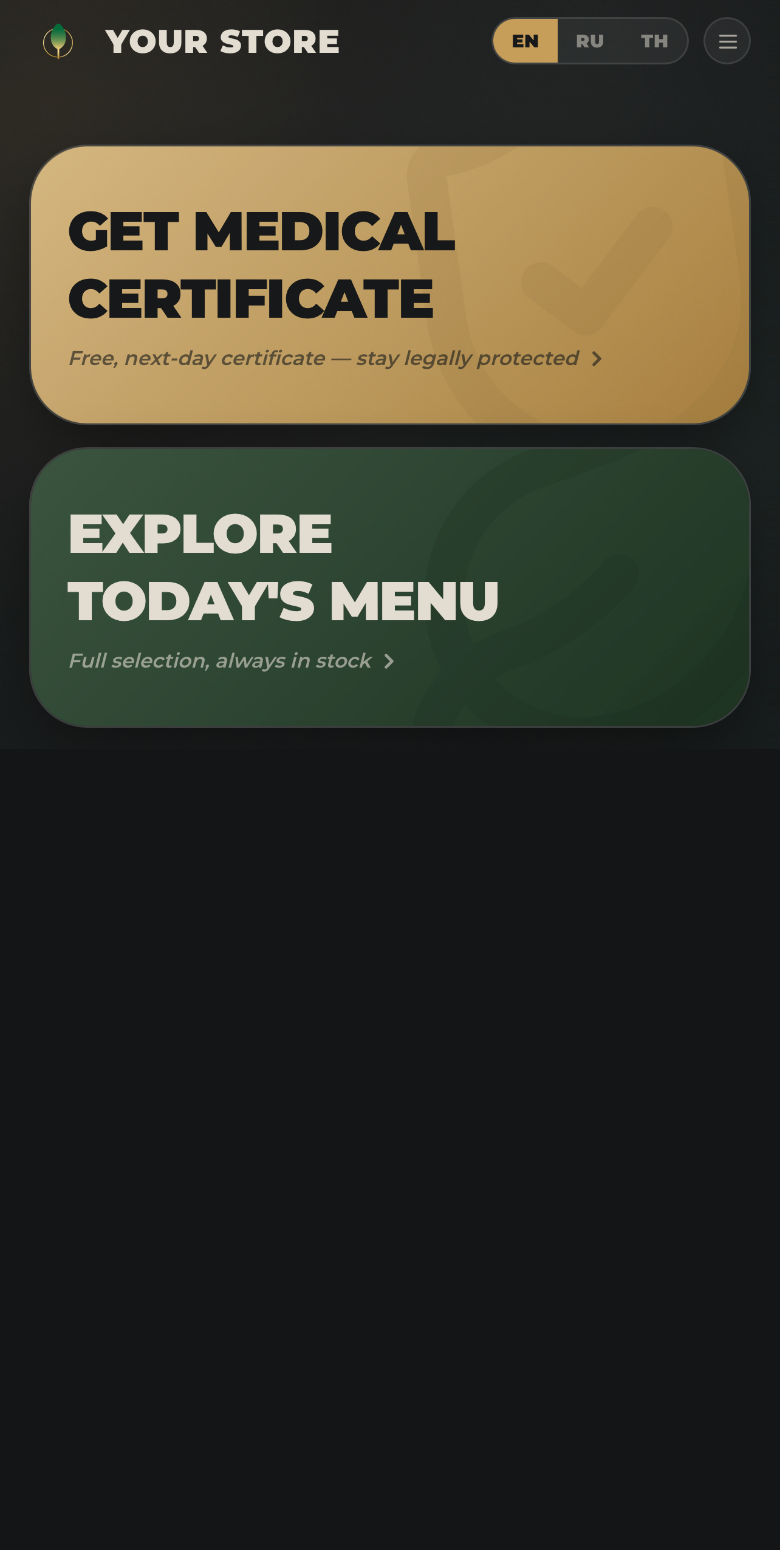
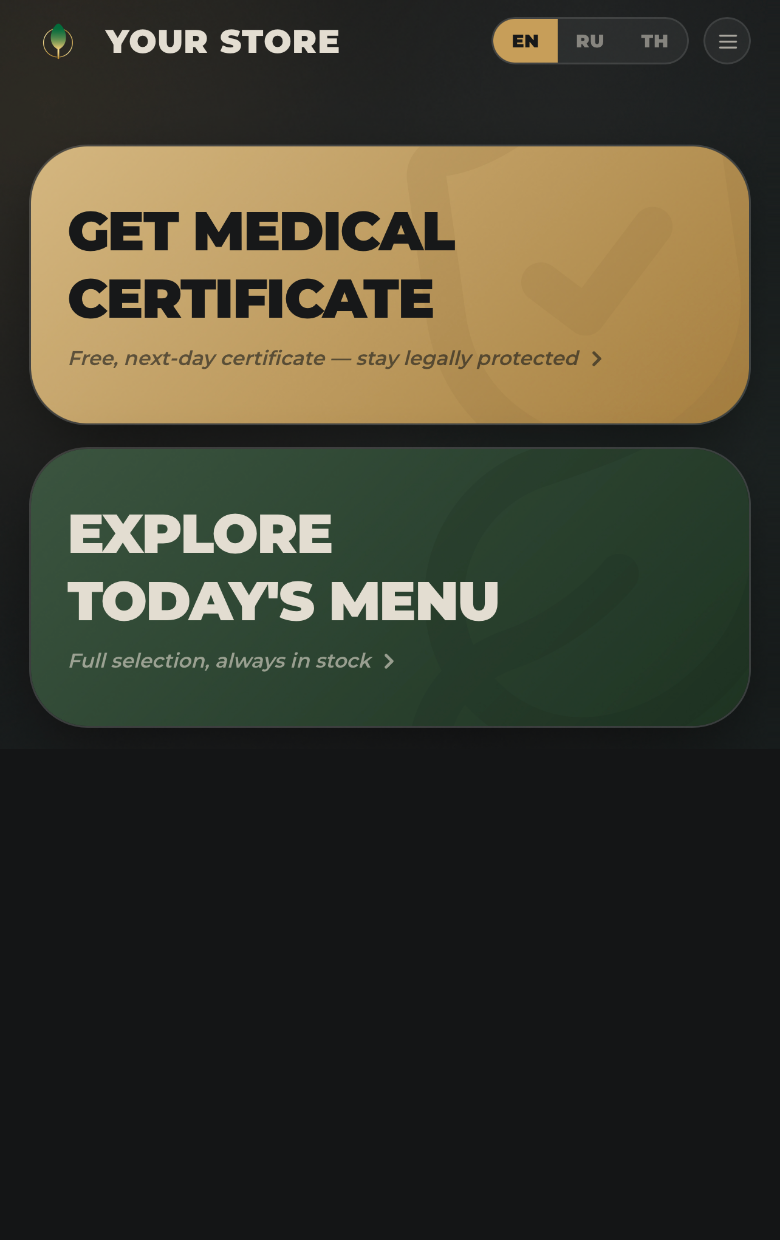
Pitch page pass 8: block 02 drops tilt, own crop for customer-view.png, CTA overlap
Three fixes, all confirmed on the live preview (mobile + desktop):

1. customer-view.png was padded to the same 775-reference-px length
   as staff-view.png, even though its real content (two cards, ending
   ~363px in) is much shorter than the panel's (buttons, ~478px in) —
   that mismatch is what left a visibly longer flat fill inside the
   file itself, ahead of any fade. Recropped independently: measured
   live (mobile's 300px actual render width is the binding case, not
   desktop's 391px, since the frame's fixed 8px padding + 1px border
   eat proportionally more of a narrower render) that 620 reference px
   is enough for the corpus's 2.4rem corner radius to clear the
   window's 100% mark with a small margin — not the ~412px of excess
   padding the shared 775 number was carrying.

2. Block 02's rotateDeg is 0 now (was -5). The tilt was the reason
   this mockup couldn't use the same CSS mask as block 01 in the first
   place — mask-image doesn't render correctly on a rotated,
   overflow-hidden element in this Chromium build, which is what
   FADE_OVERLAY_BG in PhoneMockup.tsx works around, fading to a flat
   #161819 instead of whatever's actually behind the corpus. Untilted,
   that bug doesn't apply and block 02 now fades through the same true
   mask block 01 always has, dissolving into its own actual background
   rather than a flat constant. FADE_OVERLAY_BG and the rotateDeg!==0
   branch stay in PhoneMockup.tsx for a future rotated call site, just
[…]

diff --git a/src/components/partners/PartnersClient.tsx b/src/components/partners/PartnersClient.tsx
@@ -70,27 +70,33 @@ function PitchBlock({
   cta: React.ReactNode;
   mockupSide?: "left" | "right";
   // ТЗ-4 §3.5 — each mockup's mask leaves a different amount of fully-
-  // transparent box below its last visible pixel (more on block 02, whose
-  // rotation also grows its own bounding box), so a single shared margin
-  // can't put both blocks in the same *visible* gap target at once.
+  // transparent box below its last visible pixel, so a single shared
+  // margin can't put both blocks in the same *visible* gap target at once.
   //
-  // ТЗ-7 recomputed both values from the live-rendered bounding box after
-  // WINDOW_H_PX shrunk (see PhoneMockup.tsx): `rotate()` doesn't change an
-  // element's own LAYOUT size, only where it paints, so the CTA div below
-  // (a plain flow sibling) is positioned against the mockup's *unrotated*
-  // layout height — block 02's actual (rotated) bottom edge paints lower
-  // than that, and a margin sized for the unrotated box lands short. At
-  // the old window height block 02's old `mt-0` had just enough accidental
-  // slack to cover that gap; the shrink used up that slack and then some —
-  // measured live, the rotated corpus's own deepest point (its bounding
-  // box's bottom-right corner, since -5° tilts that corner lowest) was
-  // landing 12px *below* the CTA button's own top edge, a real overlap,
-  // not just a tight gap. Both values below are chosen to clear that
-  // (measured, not assumed) bounding box with a ~28px reserve on top —
-  // reverify live (strip the mask, read getBoundingClientRect on the
-  // window div and the CTA div, see PhoneMockup.tsx's calibration-method
-  // comment for the general technique) if WINDOW_H_PX or either corpus's
-  // asset changes again.
+  // ТЗ-8 flipped the sign: both values are now NEGATIVE, so the CTA
+  // button overlaps the tail end of the mockup's own fade instead of
+  // sitting in the gap below it — the fade visually continues *behind*
+  // the button rather than finishing in empty space first (this is how
+  // the pre-merge DesktopMockup.tsx used to read, before the two mockups
+  // became one component). The overlap is safe only because it's
+  // confirmed live, pixel-sampled, not assumed: at the depth both values
+  // below reach, the composited pixel colour is already within a few RGB
+  // units of the page's own background (see PhoneMockup.tsx's
+  // calibration-method comment for the technique) — i.e. there's no
+  // still-legible corpus content getting abruptly sliced by the button's
+  // opaque fill, just a near-invisible tail.
+  //
+  // Both blocks now share the same window/mask geometry (ТЗ-8 also
+  // dropped block 02's tilt — see its call site below), so the two
+  // numbers target the same actual overlap depth (-30px, measured from
+  // the window's own bottom edge to the CTA's top) — but they're NOT the
+  // same class string: block 01's `-38px` and block 02's `-30px` differ by
+  // exactly the incidental DOM offset between the two CTAs (block 01's is
+  // a form-wrapped DemoLoginButton, block 02's a plain Link), which eats
+  // 8px of margin before it reaches the button itself. Copying one
+  // block's class value onto the other will NOT reproduce the same visual
+  // depth — reverify live (getBoundingClientRect on the window div and
+  // the CTA wrapper) rather than assuming a shared number.
   mobileCtaGapClassName?: string;
 }) {
   const textOrder = mockupSide === "left" ? "lg:order-2" : "";
@@ -218,7 +224,7 @@ export default function PartnersClient() {
           title={t.blockPt33Title}
           subtitle={t.blockPt33Subtitle}
           mockupSide="left"
-          mobileCtaGapClassName="mt-6"
+          mobileCtaGapClassName="mt-[-38px]"
           mockup={
             <PhoneMockup
               src="/images/partners/staff-view.png"
@@ -242,40 +248,54 @@ export default function PartnersClient() {
         {/* Block 02 — the client storefront the same system ships. Same
             light fill as block 01's CTA (ТЗ rewrite §11). Mockup on the
             right (ТЗ-3 §2.1) — unchanged from before, this is the result
-            side of the zigzag. 5° tilt kept (§2.2): two big cards read as
-            product photography, not data to parse.
-            Geometry (ТЗ-6 §1): customer-view.png's two cards end well
-            inside PhoneMockup's shared window (both fully opaque, nowhere
-            near the fade), but the file itself was short — the corpus's
-            own natural end (with its corner radius restored, ТЗ-5 had
-            squared it off as a workaround this rebuild replaces) landed
-            inside the still-partly-visible band, the exact "rounded sole"
-            defect ТЗ-5/6 both flagged. Extended with the screen's own
-            sampled background colour to the same 1550px (775 reference px)
-            length as block 01's asset, so its corpus now hard-clips past
-            the window's own edge before the radius ever paints, same
-            mechanism as block 01 rather than a per-block padding hack.
-            Also fixed at the source (ТЗ-6 §1.6): a light-grey scrollbar-
-            artifact column at the image's right edge (columns 769-779 of
-            780px width, present in the original capture, invisible
-            untilted but reading as a stray render seam once rotated) is
-            gone, painted over with its own left-neighbour colour for the
-            full height of the original capture — separate from, and
-            unrelated to, this block's rotated-mask overlay workaround (see
-            PhoneMockup.tsx's FADE_OVERLAY_BG comment for why this mockup
-            can't use a true CSS mask and needs the extra -inset-x-10
-            width on that overlay to cover its rotated corners). */}
+            side of the zigzag.
+            ТЗ-8 dropped the 5° tilt (§2.2's "product photography" framing
+            is gone with it) and rotateDeg={0} now — this block renders
+            through the same true CSS mask (MASK_IMAGE) block 01 always
+            has, not the FADE_OVERLAY_BG workaround. That workaround only
+            ever existed because mask-image doesn't render correctly on a
+            rotated + overflow-hidden element in this Chromium build (see
+            PhoneMockup.tsx) — its own fade target is a flat constant
+            (#161819) rather than whatever is actually behind the corpus,
+            which is exactly why it couldn't dissolve into this card's own
+            (non-flat) background convincingly. Untilted, that bug doesn't
+            apply and the flat-constant compromise isn't needed. The branch
+            itself is left in PhoneMockup.tsx (rotateDeg !== 0) rather than
+            deleted — this call site just no longer takes it.
+            Flagged, not fixed: dropping the tilt makes this block read
+            structurally closer to block 01 (both now upright phones, same
+            window height) than it used to — the zigzag mockup-side order
+            still varies, but the tilt was carrying most of the "these are
+            two different kinds of thing" feeling on its own. Left as-is
+            per explicit instruction to look at the live render and discuss
+            before compensating with anything else.
+            Geometry: customer-view.png's own imgHeight (620 reference px)
+            is sized independently of block 01's (775) — reusing that
+            number here was the ТЗ-7 mistake this pass corrects, padding
+            the file to a length sized around block 01's *longer* content
+            when block 02's own content (the two cards, ending ~363
+            reference px in) needs far less. 620 is the measured minimum
+            (mobile's 300px actual render width is the binding constraint,
+            not desktop's 391px — a fixed 8px frame padding + 1px border
+            eat proportionally more of a narrower render) for the corpus's
+            2.4rem/38.4px corner radius to clear WINDOW_H_PX's 100% mark
+            with a small (~10px) margin, not the old, much longer buffer.
+            Also fixed at the source (ТЗ-6 §1.6, unaffected by this pass):
+            a light-grey scrollbar-artifact column at the image's right
+            edge (columns 769-779 of 780px width, present in the original
+            capture) is gone, painted over with its own left-neighbour
+            colour for the full height of the original capture. */}
         <PitchBlock
           title={t.blockStorefrontTitle}
           subtitle={t.blockStorefrontSubtitle}
-          mobileCtaGapClassName="mt-10"
+          mobileCtaGapClassName="mt-[-30px]"
           mockup={
             <PhoneMockup
               src="/images/partners/customer-view.png"
               alt="buds.digital home screen — hero cards"
               imgWidth={390}
-              imgHeight={775}
-              rotateDeg={-5}
+              imgHeight={620}
+              rotateDeg={0}
               desktopWidthPx={391}
             />
           }
